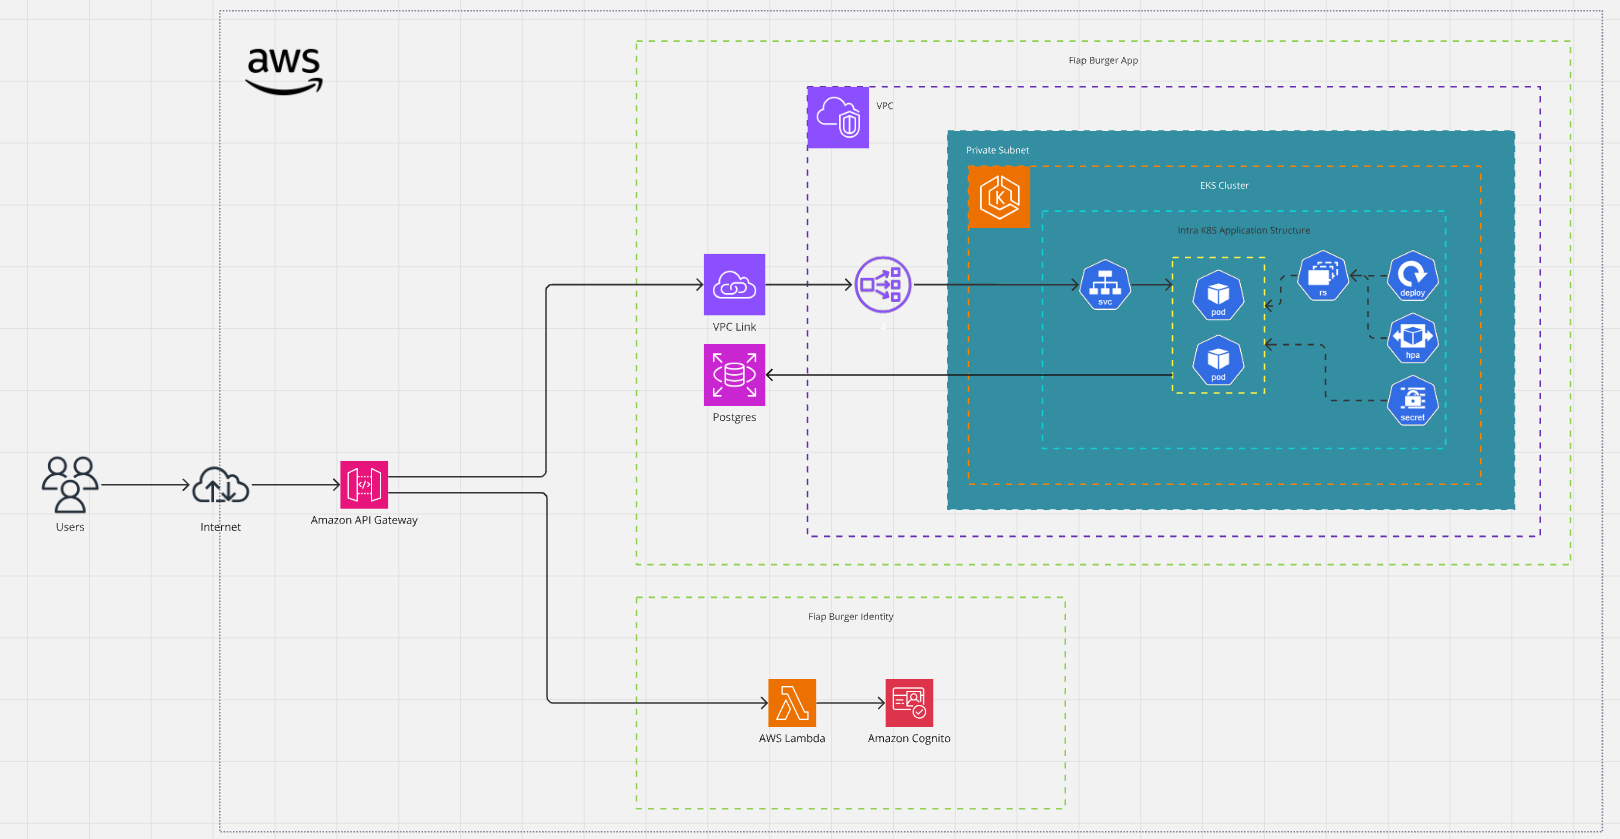
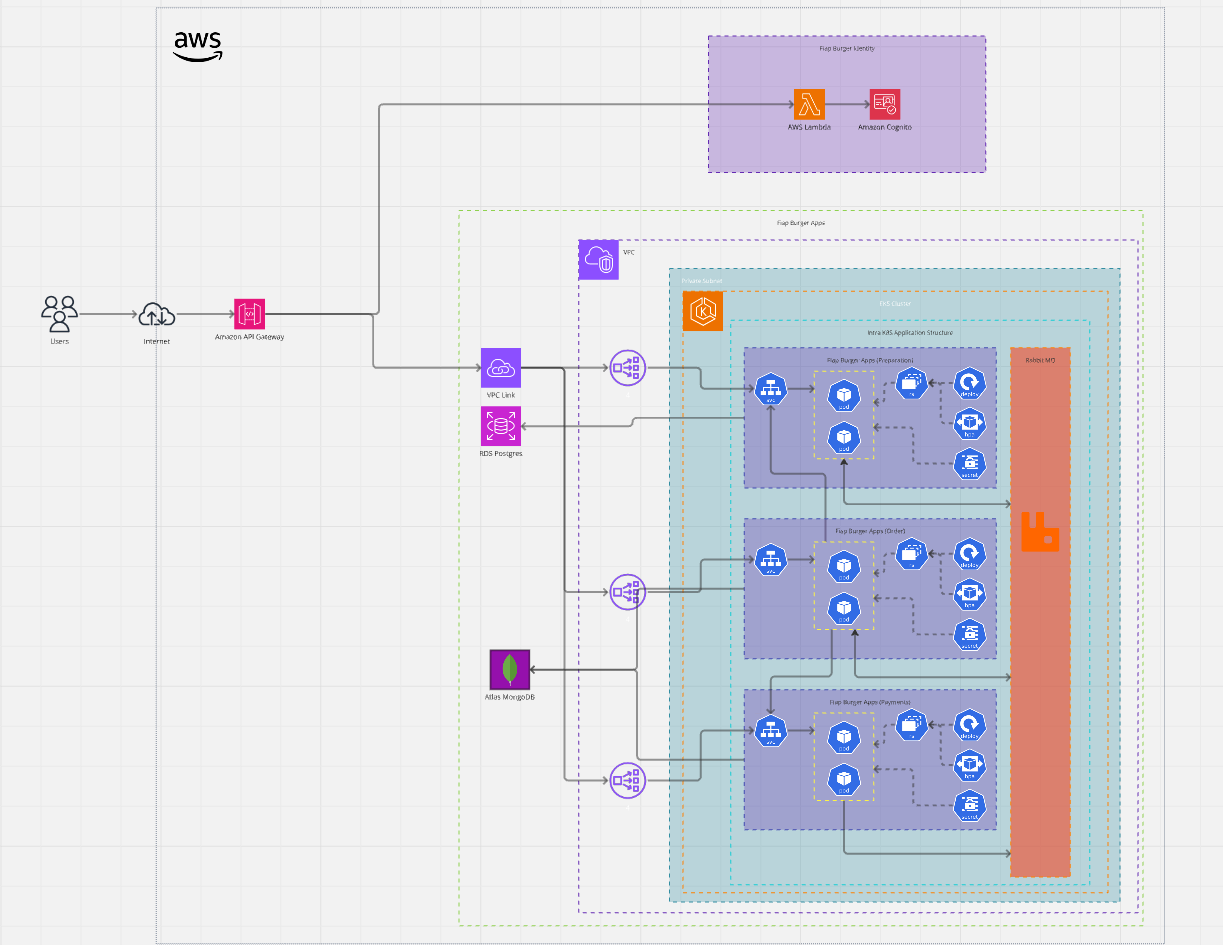
preparing deployemnt

diff --git a/profile/README.md b/profile/README.md
@@ -1,6 +1,6 @@
-# Tech Challenge FIAP Project - Fase 3
+# Tech Challenge FIAP Project - Fase 4
 
-Este projeto foi desenvolvido durante a `Fase III`, do curso de `Arquitetura de Software` da FIAP, como requisito para avaliação.
+Este projeto foi desenvolvido durante a `Fase IV`, do curso de `Arquitetura de Software` da FIAP, como requisito para avaliação.
 
 ## Integrantes do Grupo 7SOAT-31:
 
@@ -13,39 +13,52 @@ Este projeto foi desenvolvido durante a `Fase III`, do curso de `Arquitetura de 
 ## Demonstração em Vídeo
 
 ### Fase 1
+
 - [Assistir no YouTube](https://www.youtube.com/watch?v=I0tNdblTFDc)
 
 ### Fase 2
+
 - [Assistir a Parte 1 da Fase 2 no YouTube](https://www.youtube.com/watch?v=r81e0Y-HJx4)
 - [Assistir a Parte 2 da Fase 2 no YouTube](https://www.youtube.com/watch?v=cL7ryiqxlvk)
 
 ### Fase 3
+
 - [Assistir a Parte 1 no YouTube](https://youtu.be/rsVHmP_bMac)
 - [Assistir a Parte 2 no YouTube](https://youtu.be/ouYiMiizpLE)
 
-## Event Storming :[Ver no Miro 👁](https://miro.com/app/board/uXjVKYNMy0E=/?moveToWidget=3458764595664040196&cot=10):
+### Fase 4
+
+- [Assistir no YouTube](TODO)
+
+## Event Storming :[Ver no Miro 👁](https://miro.com/app/board/o9J_lHsdpmE=/?moveToWidget=3458764608376800764&cot=10):
 
 ![Event Storming](../docs/resources/EventStormingEventFlow.png)
 
-## Event Storming - Aggregates :[Ver no Miro 👁](https://miro.com/app/board/uXjVKYNMy0E=/?moveToWidget=3458764589190621319&cot=14):
+## Event Storming - Aggregates :[Ver no Miro 👁](https://miro.com/app/board/o9J_lHsdpmE=/?moveToWidget=3458764608480612936&cot=10):
 
 ![Domain Aggregates](../docs/resources/EventStormingAggregates.png)
 
-## Arquitetura Cloud (AWS) :[Ver no Miro 👁](https://miro.com/app/board/uXjVKYNMy0E=/?moveToWidget=3458764601113929087&cot=10)
+## Arquitetura Cloud (AWS) :[Ver no Miro 👁](https://miro.com/app/board/o9J_lHsdpmE=/?moveToWidget=3458764608376800696&cot=14)
 
 ![Arquitetura Cloud (AWS)](../docs/resources/ArchitectureAwsCloud.png)
 
 ## Banco de Dados:
 
-Foi escolhido o Postgres na AWS com RDS por ser um banco bastante flexível e com bom custo benefício. Além disso, o time também possui mais domínio com bancos relacionais, facilitando a modelagem e evolução das atividades. O postgres também é um banco leve para se rodar em ambiente local para desenvolvimento, melhorando a experiência de desenvolvimento.
+### Preparation Service
 
-## Modelagem da Base: [Ver no Miro 👁](https://miro.com/app/board/uXjVKYNMy0E=/?moveToWidget=3458764600308284100&cot=14)
+Foi escolhido o Postgres na AWS com RDS por ser um banco bastante flexível e com bom custo benefício. A estrutura de dados do serviço é bastante simples atualmente, contudo, para a evolução do serviço o Postgres não será um problema.
+
+### Payments e Orders Services
+
+Foi aplicado MongoDB implantado em infraestrutura da AWS gerenciada pelo Atlas. O banco forerece grande flexibilidade no trabalho e evolução dos dados.
+
+## Modelagem da Base: [Ver no Miro 👁](https://miro.com/app/board/o9J_lHsdpmE=/?moveToWidget=3458764608480748590&cot=10)
 
 ![Modelagem da Base](../docs/resources/DatabaseStructure.png)
 
 ## Repositórios
 
-Foram criados 6 repositórios conforme as descrições abaixo:
+A solução está disposta em 10 repositórios conforme as descrições abaixo:
 
 - Repositório central para organizar a documentação da solução: [Ver Repositório](https://github.com/FIAP-7SOAT-TCG31/.github)
 
@@ -53,11 +66,19 @@ Foram criados 6 repositórios conforme as descrições abaixo:
 
 - Repositório para provisionar a infraestrutura de banco de dados RDS com terraform: [Ver Repositório](https://github.com/FIAP-7SOAT-TCG31/fiap-7soat-tcg31-database)
 
+- Repositório para provisionar a infraestrutura de banco de dados MongoDB no Atlas com terraform: [Ver Repositório](https://github.com/FIAP-7SOAT-TCG31/fiap-7soat-tcg31-mongodb)
+
+- Repositório para provisionar a infraestrutura de RabbitMQ no cluster kubernetes: [Ver Repositório](https://github.com/FIAP-7SOAT-TCG31/fiap-7soat-tcg31-rabbitmq)
+
 - Repositório para provisionar a infraestrutura do EKS com terraform: [Ver Repositório](https://github.com/FIAP-7SOAT-TCG31/fiap-7soat-tcg31-kubernetes)
 
 - Repositório para o serviço de autenticação serverless escrito com Typescript e implantado como um Lambda: [Ver Repositório](https://github.com/FIAP-7SOAT-TCG31/fiap-7soat-tcg31-lambda)
 
-- Repositório para o serviço principal (fiap-burger) escrito com Java e Spring e implantado na infraestrutura do EKS: [Ver Repositório](https://github.com/FIAP-7SOAT-TCG31/fiap-7soat-tcg31-app)
+- Repositório para o serviço de Ordens (OrderService) escrito com NestJS e Node e implantado na infraestrutura do EKS: [Ver Repositório](https://github.com/FIAP-7SOAT-TCG31/fiap-7soat-tcg31-orders)
+
+- Repositório para o serviço de Pagamentos (PaymentsService) escrito com NestJS e Node e implantado na infraestrutura do EKS: [Ver Repositório](https://github.com/FIAP-7SOAT-TCG31/fiap-7soat-tcg31-payments)
+
+- Repositório para o serviço de Preparo (PreparationService) escrito com NestJS e Node e implantado na infraestrutura do EKS: [Ver Repositório](https://github.com/FIAP-7SOAT-TCG31/fiap-7soat-tcg31-preparation)
 
 ## CICD
 
@@ -66,14 +87,14 @@ Foram criados 6 repositórios conforme as descrições abaixo:
 
 ## OpenAPI - Swagger
 
-- O arquivo está disponibilizado em `../docs/swagger/openapi.yaml` e pode ser importado no [editor da OpenAPI](https://editor.swagger.io).
+- Cada serviço possui seu próprio swagger disponível na rota `/docs` com o serviço em execução.
 
 ## Requisitos Funcionais:
 
 - Cadastro de Clientes - Identity
 - Cadastro de Itens - Somente ADMINs
 - Gestão de Pedidos
-  - Inclusão de Itens
+  - Inclusão/Remoção de Itens
   - Confirmação (Checkout)
   - Confirmação de Pagamento (Webhook)
   - Followup
@@ -88,3 +109,4 @@ Foram criados 6 repositórios conforme as descrições abaixo:
 - Infraestrutura automatizada (terraform)
 - Pipelines CICD automatizados (github actions)
 - Branchs protegidas (PR, 2 approvals e actions passando)
+- Disposição em Microserviços (3 microserviços: order, preparation, payments)

diff --git a/docs/README.md b/docs/README.md
@@ -1,0 +1,24 @@
+# Tech Challenge FIAP Project - Fase 3
+
+Este projeto foi desenvolvido durante a `Fase III`, do curso de `Arquitetura de Software` da FIAP, como requisito para avaliação.
+
+## Integrantes do Grupo 7SOAT-31:
+
+- Julio Augusto Silva (RM355432)
+- Lucas Henrique de Oliveira Silva (RM354904)
+- Getúlio Magela Silva (RM355427)
+- Lucas Rego Lima (RM356101)
+- Lilian Rosario de Jesus (RM355928)
+
+## Links
+
+### Vídeos
+- [Assistir a Parte 1 no YouTube](https://youtu.be/rsVHmP_bMac)
+- [Assistir a Parte 2 no YouTube](https://youtu.be/ouYiMiizpLE)
+
+### Repositórios
+- [Gateway](https://github.com/FIAP-7SOAT-TCG31/fiap-7soat-tcg31-gateway)
+- [Aplicação Principal](https://github.com/FIAP-7SOAT-TCG31/fiap-7soat-tcg31-app)
+- [Kubernetes](https://github.com/FIAP-7SOAT-TCG31/fiap-7soat-tcg31-kubernetes)
+- [Database](https://github.com/FIAP-7SOAT-TCG31/fiap-7soat-tcg31-database)
+- [Lambda](https://github.com/FIAP-7SOAT-TCG31/fiap-7soat-tcg31-lambda)
